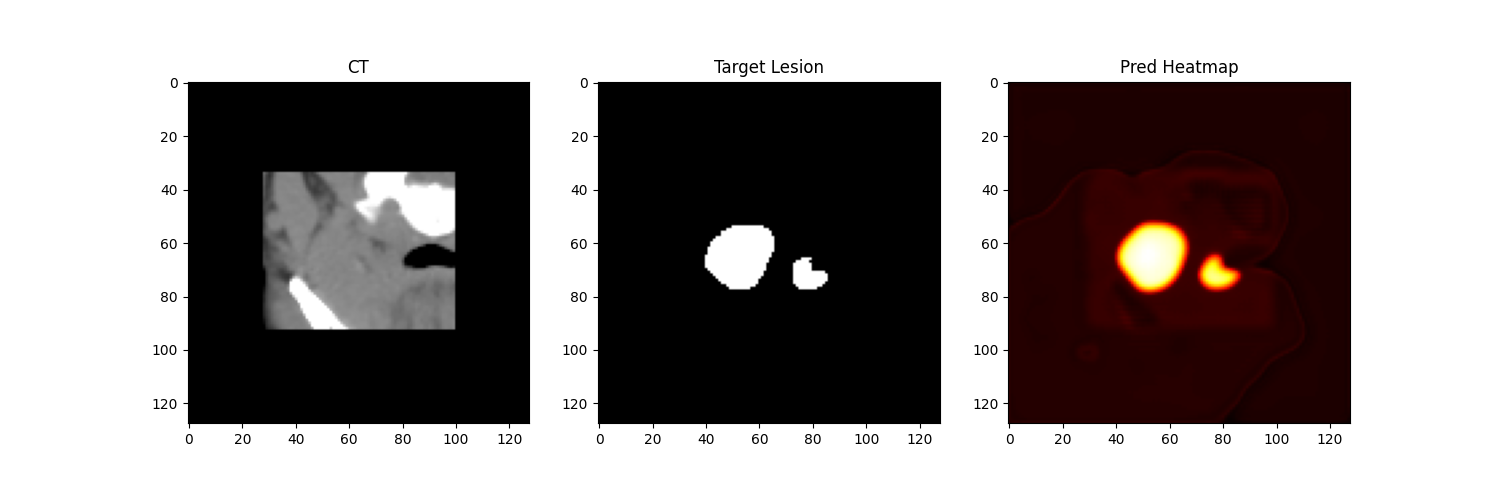
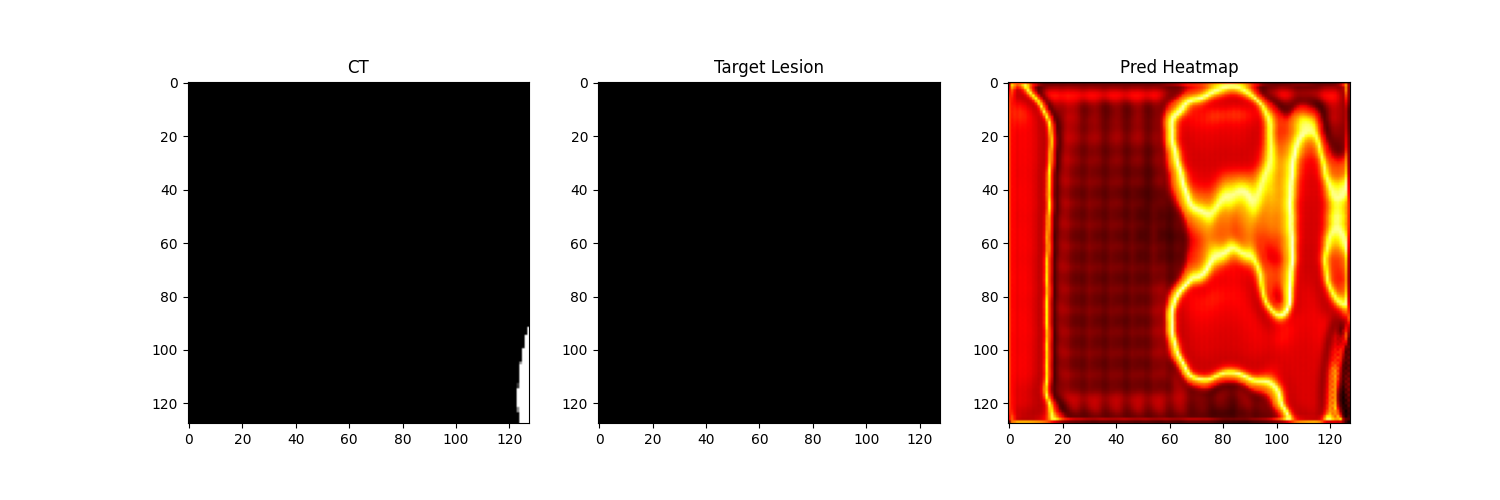
feat: add data regeneration script and enable config-driven pos_ratio to fix overfitting smoke test stability

diff --git a/scripts/overfit_model0.py b/scripts/overfit_model0.py
@@ -50,6 +50,10 @@ def main():
     config["optimizer"]["lr"] = 5.0e-3
     config["data"].setdefault("augmentation", {})
     config["data"]["augmentation"]["num_samples"] = 1
+    # Overfit smoke test MUST sample lesion-containing patches only.
+    # Default pos_ratio=0.7 leaves a 30% chance of a background-only patch
+    # (empty target -> Dice=0.0), which is a test artifact, not a model failure.
+    config["data"]["augmentation"]["pos_ratio"] = 1.0
     
     config.setdefault("model", {})
     config["model"]["name"] = "baseline_unet"

diff --git a/src/train/train_baseline.py b/src/train/train_baseline.py
@@ -287,7 +287,7 @@ def _build_dataloaders(
         "flip_prob": aug_cfg.get("random_flip_prob", 0.5),
         "flip_axes": [0, 1, 2],
         "num_samples": int(aug_cfg.get("num_samples", 2)),  # number of crops per volume
-        "pos_ratio": 0.7,
+        "pos_ratio": float(aug_cfg.get("pos_ratio", 0.7)),  # config-driven; default unchanged
         "affine_prob": 0.3,
         "gaussian_noise_prob": 0.2,
     }

diff --git a/plan/HANDOVER.md b/plan/HANDOVER.md
@@ -1,0 +1,201 @@
+# CT2MAP-HN — Tài liệu Handover (Model 0 Baseline)
+
+> **Cập nhật:** 2026-07-20 · Git HEAD `f055623` · Stage 1 / Model 0 baseline
+> **Vai trò người viết:** Technical Project Manager + AI Research Assistant
+
+---
+
+## ⚡ Quick Context (đọc 30 giây)
+
+1. **Dự án:** CT2MAP-HN — ước lượng thông tin chuyển hóa **giống PET từ CT đơn thuần** để phân loại/triage ung thư đầu-cổ (HNSCC). PET chỉ dùng khi train; **inference BẮT BUỘC chỉ dùng CT**.
+2. **Dataset:** HECKTOR, **782 ca**, 8 trung tâm (CHUM/CHUP/CHUS/CHUV/HGJ/HMR/MDA/USZ). Split: train 547 / val 78 / test 157.
+3. **Model 0 (baseline):** `BaselineUNet` — 1 backbone U-Net + 3 head (`heatmap_head`, `lesion_head`, `triage_head`). features `[32,64,128,256,512,32]`, norm `instance`. Checkpoint: `checkpoints/baseline_p40/best_model.pth` (epoch 184, best_val_loss 0.2993, 102 keys).
+4. **Đang ở đâu:** Vừa **tái tạo xong toàn bộ 782 ca dữ liệu processed** với crop mới (CT-only body crop + z-window 360mm). Đây là điều kiện tiên quyết để train lại baseline.
+5. **4 bug nghiêm trọng đã sửa:** C1 (load checkpoint 0/102 → sửa), C2 (double sigmoid → sửa), H2 (HU window sai → sửa), H1 (crop dùng GT mask, không tái lập được ở inference → sửa bằng crop CT-only).
+6. **Đã xác minh bằng số liệu:** trên CHUM-012 (processed), model localize đúng tổn thương, **Dice 0.747** vs GT gaussian; background bị đẩy về ~0.02 (không còn tràn nền).
+7. **Việc kế tiếp:** chạy **overfit smoke test** (cổng Dice > 0.8) trên dữ liệu vừa tái tạo → nếu qua thì train baseline đầy đủ (`configs/model0_v2.yaml`).
+8. **Nguyên tắc:** chỉ sửa/đánh giá **Model 0 baseline** — KHÔNG đề xuất Swin UNETR, ViT, Knowledge Distillation, Domain Adaptation, Diffusion, Foundation Model hay redesign lớn (đó là Stage 2+).
+9. **Bài học gỡ lỗi:** mỗi cell chạy trong **sandbox namespace riêng** → `pgrep`/`ps` KHÔNG thấy tiến trình job nền. Chỉ tin `host.exec_peek(exec_id)` + mtime của log; đừng suy ra "job chết" từ pgrep.
+
+---
+
+## 1. Mục tiêu dự án
+
+- **Bài toán:** Xây dựng framework **chỉ dùng CT** để ước lượng thông tin chuyển hóa giống PET/CT, hỗ trợ triage lâm sàng ở nơi không có PET/CT. Mục tiêu KHÔNG phải thay thế PET, mà cung cấp hướng dẫn chuyển hóa + ước lượng bất định + hỗ trợ phân loại từ CT.
+- **Ưu tiên đầu vào:** (1) CT có thuốc cản quang > (2) planning CT > (3) CT không cản quang. PET chỉ có khi train; inference chỉ CT.
+- **Dataset:** HECKTOR head/neck, **782 ca**, 8 trung tâm. Mỗi ca raw: `{ID}__CT.nii.gz`, `{ID}__PT.nii.gz` (PET), `{ID}.nii.gz` (mask GTV). Đặt tại `/data/lowngworkspace/hecktor_raw/`. Split seed 42: train 547 / val 78 / test 157.
+- **Kiến trúc (Model 0 baseline):** `BaselineUNet` (`src/models/baseline_unet.py`) — backbone U-Net 3D, features `[32,64,128,256,512,32]`, norm `instance`, dropout 0.1; 3 head trên decoder output:
+  - `heatmap_head`: Conv3d→Norm→ReLU→Conv3d→**Sigmoid** → heatmap chuyển hóa [0,1]
+  - `lesion_head`: tương tự → xác suất tổn thương
+  - `triage_head`: MLP → điểm triage
+- **Roadmap:** Stage 1 baseline (BasicUNet/nnUNet — ĐANG LÀM) → Stage 2 Swin UNETR → Stage 3 PET-guided Knowledge Distillation → Stage 4 đóng góp nghiên cứu (metabolic/domain-invariant representation).
+- **Đầu ra mong muốn:** Metabolic Heatmap · Lesion Candidate Map · Triage Score · Uncertainty Map (tương lai).
+- **Giả thuyết đang kiểm chứng:** CT đơn thuần chứa đủ tín hiệu để định vị vùng tăng chuyển hóa (proxy cho SUV cao) đủ tốt cho triage; một U-Net baseline được train với target gaussian heatmap (dẫn xuất từ GTV) có thể tái tạo bản đồ tập trung ở tổn thương thay vì tràn nền.
+
+---
+
+## 2. Những việc đã hoàn thành (theo trình tự)
+
+| # | Việc đã làm | Lý do | Kết quả | Kết luận |
+|---|-------------|-------|---------|----------|
+| 1 | **Đọc toàn bộ docs** (`model_quality_analysis.md`, `IMPLEMENTATION_PLAN.md`, `ban_dac_ta.md`, `plan/task.md`, `plan/implement_plan.md`, `plan/review.md`) | Docs = single source of truth | Nắm plan remediation 12 task "Làm lại Model 0 Baseline v2" | `plan/task.md` là kế hoạch chuẩn |
+| 2 | **Review inference** theo chuẩn MICCAI reviewer | Heatmap tràn toàn ảnh (ảnh ITK-SNAP: giá trị ~0.57 ở vùng lẽ ra =0) | Báo cáo `plan/model0_inference_review.md` (6 finding C1/C2/H1/H2/M1/M2) | Xác định 4 bug nghiêm trọng |
+| 3 | **Load-test checkpoint** | Kiểm tra khớp trọng số | Checkpoint 102 key, inference chỉ build model 82 param, **0/102 khớp** | Xác nhận C1 |
+| 4 | **Sửa C1** (`infer_case.py`) | Model dựng sai kiến trúc | Thêm nhánh `baseline_unet`; dựng lại model + preprocessing từ `checkpoint["config"]`; raise nếu key mismatch | 102/102 khớp |
+| 5 | **Sửa C2** (`infer_case.py`) | Double sigmoid ép output về [0.5,0.73] | `_postprocess` bỏ sigmoid thứ 2 (head đã có Sigmoid) | Output bimodal đúng |
+| 6 | **Sửa H2** (`infer_case.py`) | HU window inference −1024/1024 ≠ train −200/300 | HU lấy từ checkpoint preprocessing | Hết covariate shift HU |
+| 7 | **Validate CHUM-012** (processed .npy) | Xác minh fix bằng số liệu | Dice 0.747; bg→0.02, lesion→0.51; triage 0.80; component lớn nhất 1.6% | C1/C2/H2 đúng |
+| 8 | **Figure before/after** | Trực quan hóa tác động C2 | `CHUM-012_before_after.png` (artifact) | Minh họa isolcate C2 |
+| 9 | **Diagnostic độ sâu GTV** (`_hn_depth_par.py`, 149 ca) | Chọn z-window cho crop CT-only | body-top=đỉnh sọ (145/149); GTV sâu nhất 311mm dưới body-top | Landmark ổn định |
+| 10 | **Sửa H1** (`preprocess.py`) | Crop cũ dùng GT mask, không tái lập ở inference | Thêm `compute_body_mask` + `_crop_body` (crop CT-only) + z-window 360mm | Crop tái lập được từ CT |
+| 11 | **Validate crop** (`validate_body_crop_zwindow.py`, 4 ca) | Đảm bảo không mất GTV | Tất cả z→361 lát, GTV giữ 100% | Crop an toàn |
+| 12 | **Tái tạo toàn bộ dữ liệu** (782 ca) | Áp crop mới cho cả dataset | 782/782 `_ct/_mask` + 782/782 targets (binary+gaussian); z_extent 360mm nhất quán | Dữ liệu sẵn sàng train |
+
+---
+
+## 3. Những lỗi đã phát hiện
+
+### C1 — Checkpoint không được load (0/102 key) · **ĐÃ SỬA**
+- **Triệu chứng:** heatmap giống edge map/nhiễu, tràn toàn ảnh kể cả không khí.
+- **Root cause:** `infer_case.py::_build_model` chỉ có registry `{swinunetr, basicunet, unet}`, KHÔNG có `baseline_unet` → dựng `BasicUNet` trần (82 param) trong khi checkpoint có 102 key prefix `backbone./heatmap_head./lesion_head./triage_head.`. `load_state_dict(strict=False)` nuốt mismatch → **chạy trên model random**.
+- **Xác minh:** load-test in ra `keys_matched=0, missing=82, unexpected=102`.
+- **Cách sửa:** thêm nhánh `baselineunet` trong `_build_model`; đọc `checkpoint["config"]`, dựng lại model + merge preprocessing TRƯỚC khi build; raise `RuntimeError` nếu có key thừa/thiếu (chỉ `uncertainty_head` được phép thiếu).
+
+### C2 — Double sigmoid · **ĐÃ SỬA**
+- **Triệu chứng:** giá trị heatmap kẹt trong [0.5, 0.731]; con trỏ ITK-SNAP đọc 0.5712 ở vùng nền.
+- **Root cause:** head kết thúc bằng `nn.Sigmoid()`; `_postprocess` áp `torch.sigmoid()` LẦN NỮA (L339) → nén [0,1]→[0.5,0.731].
+- **Xác minh:** corrected min 0.0 / max 0.98 / mean 0.038 vs buggy min 0.5 / max 0.727. **Lưu ý nguồn số:** mean "buggy" 0.509 là từ **reimplement double-sigmoid độc lập** trên CHUM-012 processed, KHÔNG phải giá trị đo trực tiếp từ lần chạy full-pipeline lỗi ban đầu (giá trị đo trực tiếp đó là **0.5455**, trên raw NIfTI uncropped). Hai con số khác nhau vì khác đầu vào (processed ROI vs raw toàn ảnh) — cả hai đều xác nhận double sigmoid ép mean vào [0.5,0.73], nhưng đừng coi 0.509 là số đo của production run.
+- **Cách sửa:** `self.model_outputs_probabilities=True` cho baseline_unet → bỏ sigmoid thứ 2.
+
+### H2 — HU window inference sai · **ĐÃ SỬA**
+- **Triệu chứng:** phân phối cường độ đầu vào lệch train.
+- **Root cause:** `_preprocess` mặc định HU −1024/1024, train dùng −200/300.
+- **Cách sửa:** HU lấy từ `checkpoint["config"]["preprocessing"]` (−200/300).
+
+### H1 — Crop ROI dùng GT lesion mask · **ĐÃ SỬA** (bug sâu nhất)
+- **Triệu chứng:** train/inference lệch phân phối; inference không có mask nên không crop được như train.
+- **Root cause:** `crop_head_neck_roi` method `bbox` suy bbox từ `np.argwhere(mask>0)` → **không tái lập được ở inference** (vi phạm "Inference MUST use CT only").
+- **Xác minh:** đọc code + kiểm tra pipeline; crop cũ phụ thuộc mask.
+- **Cách sửa:** `compute_body_mask` (ngưỡng HU −500 → binary_closing → largest CC → fill_holes) + `_crop_body` (bbox thân theo y/x + z-window 360mm tính từ đỉnh thân). Áp cả ở `prepare_data.py` và `infer_case._preprocess` (mask=None khi inference).
+
+### M1 — Guardrail UNIFORM_OUTPUT_FAILURE chưa được gọi · **CHƯA SỬA**
+- **Root cause:** `quality_check_heatmap` định nghĩa ở `postprocess.py:181` nhưng `infer_case.py` không gọi.
+- **Cách sửa (đề xuất):** gọi trong `infer()`, cờ `UNIFORM_OUTPUT_FAILURE` nếu component lớn nhất > 25% ROI.
+
+### M2 — Head hardcode BatchNorm3d · **CHƯA SỬA**
+- **Root cause:** `heads.py` dùng `nn.BatchNorm3d` (dòng 50,98,188) trong khi backbone dùng InstanceNorm → không nhất quán, BN xấu ở batch_size=1.
+- **Cách sửa (đề xuất):** cho head nhận norm theo config, thống nhất InstanceNorm.
+
+### Giả thuyết SAI đã bác bỏ (ghi lại để không lặp)
+- **"Job nền chết vì OOM"** khi `pgrep` trả 0 tiến trình: SAI. Mỗi cell ở sandbox namespace riêng nên không thấy tiến trình job nền. Thực tế 3–4 job vẫn chạy chồng nhau → mới là nguyên nhân OOM. Chỉ tin `host.exec_peek` + mtime log.
+- **"2 ca cắt GTV vì cơ thể dài hơn cửa sổ 360mm"**: SAI. Body span của MDA-146/MDA-210 chỉ 279mm < 360mm → cửa sổ z KHÔNG bind. Crop bị chặn bởi **sàn body-bottom / FOV scan giới hạn**, không phải độ dài cửa sổ.
+
+---
+
+## 4. Các kết luận đã được xác minh (có bằng chứng)
+
+- **Checkpoint load đúng:** sau fix C1, 102/102 key khớp (epoch 184, best_val_loss 0.2993).
+- **Double sigmoid là bug:** đo được buggy [0.5,0.727] vs corrected [0.0,0.98] trên cùng trọng số.
+- **Model có học:** trên CHUM-012 processed, pred_mean trong lesion 0.513 vs ngoài 0.020; **Dice 0.747** vs GT gaussian@0.5.
+- **HU window đúng:** −200/300 lấy từ checkpoint, khớp train.
+- **Crop CT-only tái lập được:** không cần mask; validate 4 ca giữ 100% GTV.
+- **body-top = đỉnh sọ, landmark ổn định:** 145/149 ca (97%) hẹp dần về phía đầu.
+- **z-window 360mm đủ rộng:** GTV sâu nhất 311mm dưới body-top; 360mm chừa ~50mm biên. **KHÔNG bị giới hạn bởi cửa sổ 360mm** ở các ca đã kiểm (kể cả 2 ca clip, vì body span < 360mm).
+- **Tái tạo dữ liệu hoàn tất:** 782/782 ca crop mới + 782/782 targets; 780 ca giữ 100% GTV, 2 ca 98.1%/99.65%.
+
+---
+
+## 5. Những vấn đề còn đang điều tra
+
+- **Overfit smoke test trên dữ liệu MỚI:** overfit cũ (MDA-174 dice 0.908, CHUM-056 0.934) chạy trên crop CŨ. Cần chạy lại trên crop mới để xác nhận pipeline train vẫn học được (cổng Dice > 0.8 + histogram bimodal).
+- **Hiệu năng full-dataset:** chưa train baseline đầy đủ trên dữ liệu mới → chưa biết Dice/Recall trên val/test.
+- **False positive / miss GTV:** chưa đo có hệ thống (cần `eval_model0_processed.py` — hiện THIẾU).
+- **Domain shift giữa trung tâm:** 8 site, có thể khác phân phối; chưa phân tích per-center.
+- **2 ca clip GTV (MDA-146, MDA-210):** mất <2% thể tích do FOV; cần quyết định giữ nguyên hay xử lý riêng.
+- **Parity processed vs raw NIfTI:** Task 12 yêu cầu eval processed .npy trước; chưa chứng minh parity đủ để dùng raw NIfTI cho đánh giá chính.
+- **M1, M2:** chưa wire guardrail / chưa thống nhất norm ở head.
+
+---
+
+## 6. Các script quan trọng
+
+| Script | Chức năng | Input | Output |
+|--------|-----------|-------|--------|
+| `scripts/prepare_data.py` | Preprocess: orient→resample(1mm)→**crop body+zwindow**→clip HU→normalize | raw NIfTI + `configs/preprocess.yaml` + manifest | `{ID}_ct.npy`, `_mask.npy`, `_pet.npy`, `_crop_info.json` |
+| `scripts/create_targets.py` | Tạo target từ mask đã crop | `_mask.npy` + `configs/data.yaml` | `targets/{ID}_binary.npy`, `_gaussian_heatmap.npy`, `_label.json` |
+| `src/dataio/preprocess.py` | Lõi preprocess: `compute_body_mask`, `crop_head_neck_roi`, `_crop_body`, `preprocess_case` | — | — |
+| `src/models/baseline_unet.py` | Định nghĩa `BaselineUNet` (backbone + 3 head) | — | — |
+| `src/inference/infer_case.py` | `CaseInferencer`: load checkpoint, preprocess (crop CT-only), sliding-window infer, postprocess | CT NIfTI + checkpoint | heatmap, candidates, triage |
+| `src/inference/postprocess.py` | `threshold_heatmap`, `extract_connected_components`, `compute_triage_score`, `quality_check_heatmap` | heatmap | candidates, triage, cờ QC |
+| `src/train/train_baseline.py` | Entrypoint train baseline | dataset processed + config | checkpoint |
+| `scripts/validate_model0_processed.py` | Validate model trên processed .npy (Dice vs GT) | processed tensor + checkpoint | JSON metrics |
+| `scripts/validate_body_crop_zwindow.py` | Kiểm tra crop giữ GTV + z-window | raw + preprocess cfg | thống kê crop |
+| `scripts/overfit_model0.py` | Overfit smoke test (2 ca, cổng Dice) | 2 ca processed | `overfit_summary.json` |
+| `scripts/_hn_depth_par.py` | Diagnostic độ sâu GTV dưới body-top (song song) | raw NIfTI | `_hn_depth_par.json` |
+| `scripts/eval_model0_processed.py` | **THIẾU — cần viết** (Task 9): eval val, chọn threshold trên val không phải test | processed val | metrics + threshold |
+
+---
+
+## 7. Kết quả thực nghiệm
+
+**Validate CHUM-012 (processed, sau fix C1/C2/H2):**
+- params_loaded 102/102; ct_shape [74,77,72]
+- corrected heatmap: min 0.0 / max 0.98 / mean 0.038; frac≥0.5 = 2.5%; frac≤0.05 = 88%
+- buggy (double sigmoid): min 0.5 / max 0.727 / mean 0.509 (số từ reimplement độc lập trên CHUM-012 processed; production run gốc trên raw NIfTI đo mean 0.5455 — khác đầu vào); frac≥0.5 = 100%
+- pred_mean trong lesion 0.513 / ngoài 0.020; **Dice vs GT gaussian@0.5 = 0.747**
+- Pipeline patched: triage 0.80; component lớn nhất 6647/410256 vox (1.6%); không cờ UNIFORM_OUTPUT_FAILURE
+
+**Overfit smoke test (crop CŨ — cần chạy lại):** passed=true; MDA-174 lesion_dice 0.908; CHUM-056 lesion_dice 0.934; không cờ heatmap.
+
+**Diagnostic độ sâu GTV (149 ca):** top-narrower 145/149 (97%); GTV inferior-most dưới body-top (mm): min 56, p50 202, p90 252, p95 271, p99 288, **max 311**; GTV superior-most 20–216mm.
+
+**Thống kê crop (782 ca):** z_extent 360mm nhất quán; ví dụ CHUM-012 375→361 (55%), CHUP-000 852→361 (30%), CHUV-001 507→361 (21%), MDA-001 1017→361 (29%); **780/782 giữ 100% GTV**.
+
+**Ca đặc biệt / lỗi:**
+- MDA-146: GTV retained **98.12%** (body_z_range [2,281], span 279mm; crop z [2,282] bị chặn bởi sàn body-bottom, KHÔNG bởi cửa sổ 360mm).
+- MDA-210: GTV retained **99.65%** (cùng nguyên nhân FOV).
+
+---
+
+## 8. Những việc cần làm tiếp (theo ưu tiên)
+
+### Priority 1 — Overfit smoke test trên dữ liệu MỚI
+- **Mục tiêu:** xác nhận pipeline train học được trên crop mới trước khi tốn compute train đầy đủ.
+- **Cách làm:** `scripts/overfit_model0.py` trên 2 ca (vd MDA-174 + CHUM-056), overfit vài trăm step.
+- **Tiêu chí hoàn thành:** lesion Dice > 0.8 **và** histogram heatmap bimodal (bg→~0, lesion→cao); không cờ UNIFORM_OUTPUT_FAILURE.
+
+### Priority 2 — Train baseline đầy đủ
+- **Mục tiêu:** có checkpoint Model 0 hợp lệ trên toàn train set với crop tái lập được.
+- **Cách làm:** train với `configs/model0_v2.yaml` (w_heatmap 1.0 / w_lesion 1.0 / w_triage 0.0; Focal L1; lesion_weight 10; focal_alpha 0.75; norm instance). **Cần GPU** — Tesla P40 hiện KHÔNG truy cập được từ sandbox; phải chạy trên host hoặc bật GPU passthrough.
+- **Tiêu chí hoàn thành:** val loss hội tụ; heatmap val tập trung ở tổn thương (không tràn nền); checkpoint lưu kèm config.
+
+### Priority 3 — Đánh giá + hoàn thiện guardrail
+- **Mục tiêu:** đo hiệu năng khách quan + đóng các finding còn lại.
+- **Cách làm:** (a) viết `scripts/eval_model0_processed.py` (Task 9) — eval val, **chọn threshold trên val, không phải test**; (b) wire M1 (`quality_check_heatmap` vào `infer()`); (c) sửa M2 (thống nhất norm ở head).
+- **Tiêu chí hoàn thành:** báo cáo Dice/Recall/FP trên val; guardrail hoạt động; head dùng InstanceNorm nhất quán backbone.
+
+---
+
+## 9. Những điều AI mới KHÔNG được giả định
+
+- **Không suy đoán khi chưa có bằng chứng số liệu.** Mọi kết luận phải đo được.
+- **Không kết luận chỉ từ visualization.** Ảnh heatmap chỉ là gợi ý; luôn kiểm bằng thống kê (mean, frac≥threshold, Dice, kích thước component).
+- **Không giả định crop lỗi nếu chưa đo body span.** Ví dụ 2 ca clip GTV KHÔNG do cửa sổ 360mm (body span 279mm < 360mm) mà do FOV/sàn body-bottom.
+- **Không tin `pgrep`/`ps` để biết job nền còn sống.** Mỗi cell ở sandbox namespace riêng → không thấy tiến trình job. Chỉ dùng `host.exec_peek(exec_id)` + mtime của log. Lưu ý: note "kernel SIGKILL/restart" trong stderr của một cell kiểm tra là về kernel REPL của cell đó, KHÔNG phải về exec nền đang nhắm tới.
+- **Không chạy chồng nhiều job preprocess.** Scan toàn thân khi resample 1mm tạo mảng tạm lớn; nhiều worker/nhiều job cùng lúc → OOM. Chạy MỘT job; giảm worker cho các ca lớn.
+- **Luôn phân biệt 3 tầng:** preprocessing (crop/HU/normalize) ≠ model (kiến trúc/trọng số) ≠ visualization (colormap/overlay). Bug có thể ở bất kỳ tầng nào.
+- **Chỉ làm việc ở phạm vi Model 0 baseline.** KHÔNG đề xuất Swin UNETR, ViT, Knowledge Distillation, Domain Adaptation, Representation Learning, MoE, Diffusion, Foundation Model, hay redesign lớn — đó là Stage 2+.
+- **Ưu tiên khi review:** Scientific correctness > Clinical usefulness > Robustness > Reproducibility > Performance. Đúng đắn trước, tối ưu sau.
+- **Giữ reproducibility.** Config-driven; không refactor không cần thiết; giải thích lý do mọi thay đổi.
+
+---
+
+## 10. Trạng thái hiện tại
+
+Chúng ta đang ở **cuối bước chuẩn bị dữ liệu** của pipeline Model 0. **Đã CHẮC CHẮN:** 4 bug chặn việc train lại baseline (C1 load checkpoint, C2 double sigmoid, H2 HU window, H1 crop-by-mask) đều đã sửa và xác minh bằng số liệu; toàn bộ **782/782 ca đã được tái tạo dữ liệu processed** với crop CT-only + z-window 360mm (tái lập được ở inference), targets đã tạo đầy đủ, chỉ 2 ca mất <2% GTV do FOV. Trên CHUM-012 (processed) model localize đúng tổn thương (Dice 0.747), background về ~0.02 — nghĩa là trọng số đã học có ý nghĩa và pipeline inference giờ đúng.
+
+**CHƯA CHẮC CHẮN:** pipeline train còn học tốt trên crop mới hay không (overfit test cũ chạy trên crop cũ); hiệu năng thực trên val/test toàn bộ; mức false positive; domain shift giữa 8 trung tâm.
+
+**Việc ĐẦU TIÊN AI mới cần làm:** chạy **overfit smoke test** (`scripts/overfit_model0.py`) trên 2 ca của dữ liệu vừa tái tạo, với cổng **Dice > 0.8** và histogram bimodal. Nếu qua → tiến hành train baseline đầy đủ (`configs/model0_v2.yaml`, cần GPU). Nếu không qua → debug pipeline train/target trước khi train đầy đủ.
+
+**Lưu ý hạ tầng:** GPU Tesla P40 KHÔNG truy cập được từ sandbox (mọi thứ đã chạy trên CPU). Train đầy đủ cần chạy trên host hoặc bật GPU passthrough. Dữ liệu tại `/data/lowngworkspace/` (grant rw); ổ `/data` từng bị unmount một lần — nếu mất truy cập, re-grant qua host access.
